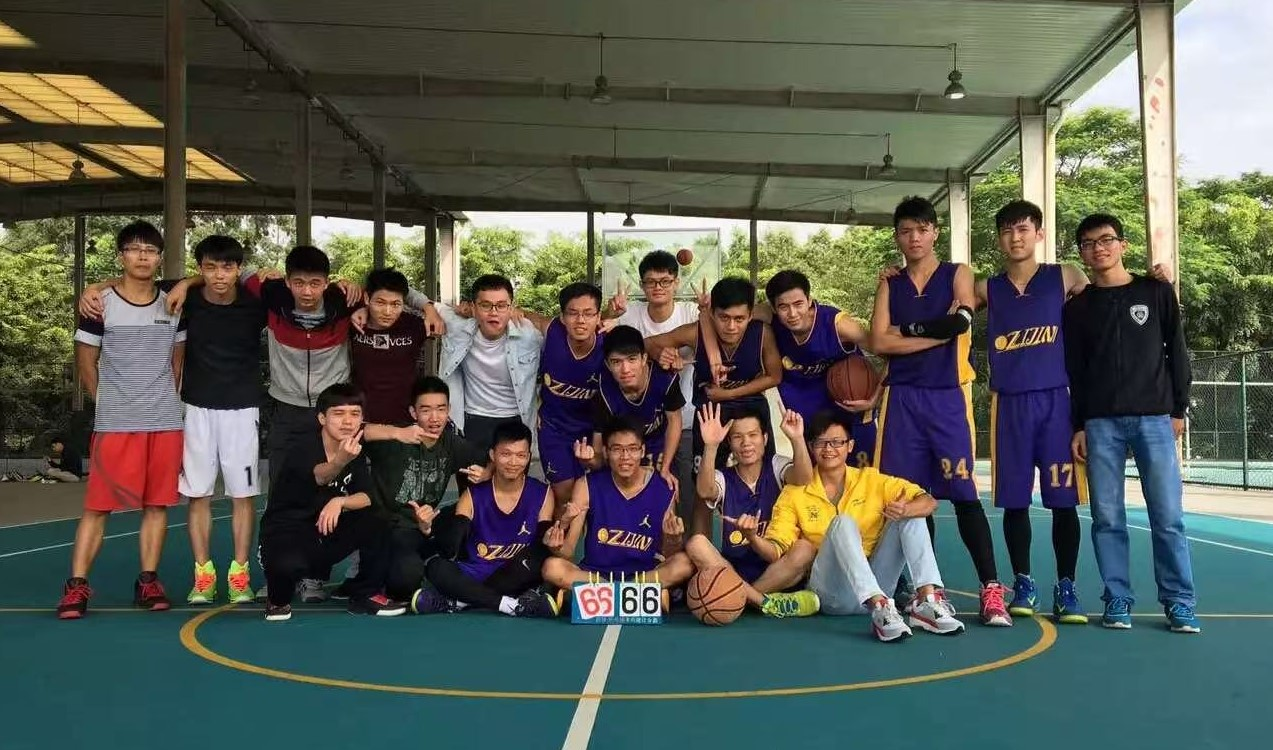
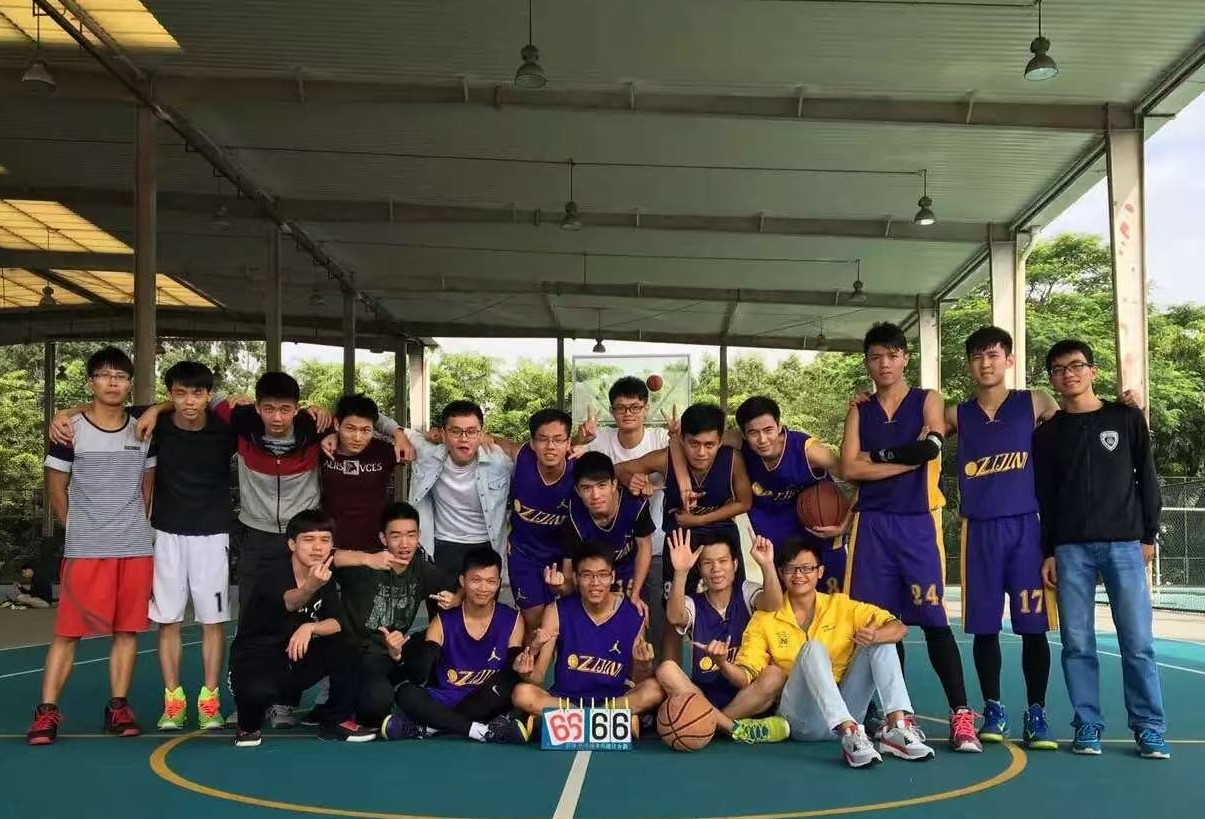
update

diff --git a/_pages/personal.md b/_pages/personal.md
@@ -185,7 +185,7 @@ h5 {
   <!-- Row 1 -->
   <div class="row">
     <div class="col-md-4 mt-3">
-      <img class="img-fluid rounded z-depth-1" src="../assets/personal/basketball/2023-baksetball-person.jpg" style="width: 100%; height: 200px; object-fit: cover; object-position: center 20%;">
+      <img class="img-fluid rounded z-depth-1" src="../assets/personal/basketball/2023-baksetball-person.jpg" style="width: 100%; height: 200px; object-fit: cover; object-position: center 23%;">
       <p style="text-align: center; margin-top: 10px; color: var(--global-text-color-light); font-size: 0.9em;">
         2023 Basketball Personal
       </p>
@@ -262,7 +262,7 @@ h5 {
       </p>
     </div>
     <div class="col-md-4 mt-3">
-      <img class="img-fluid rounded z-depth-1" src="../assets/personal/basketball/2016-baksetball-team-1.jpg" style="width: 100%; height: 200px; object-fit: cover; object-position: center 40%;">
+      <img class="img-fluid rounded z-depth-1" src="../assets/personal/basketball/2016-baksetball-team-1.jpg" style="width: 100%; height: 200px; object-fit: cover; object-position: center 80%;">
       <p style="text-align: center; margin-top: 10px; color: var(--global-text-color-light); font-size: 0.9em;">
         2016 Basketball Team Action
       </p>
